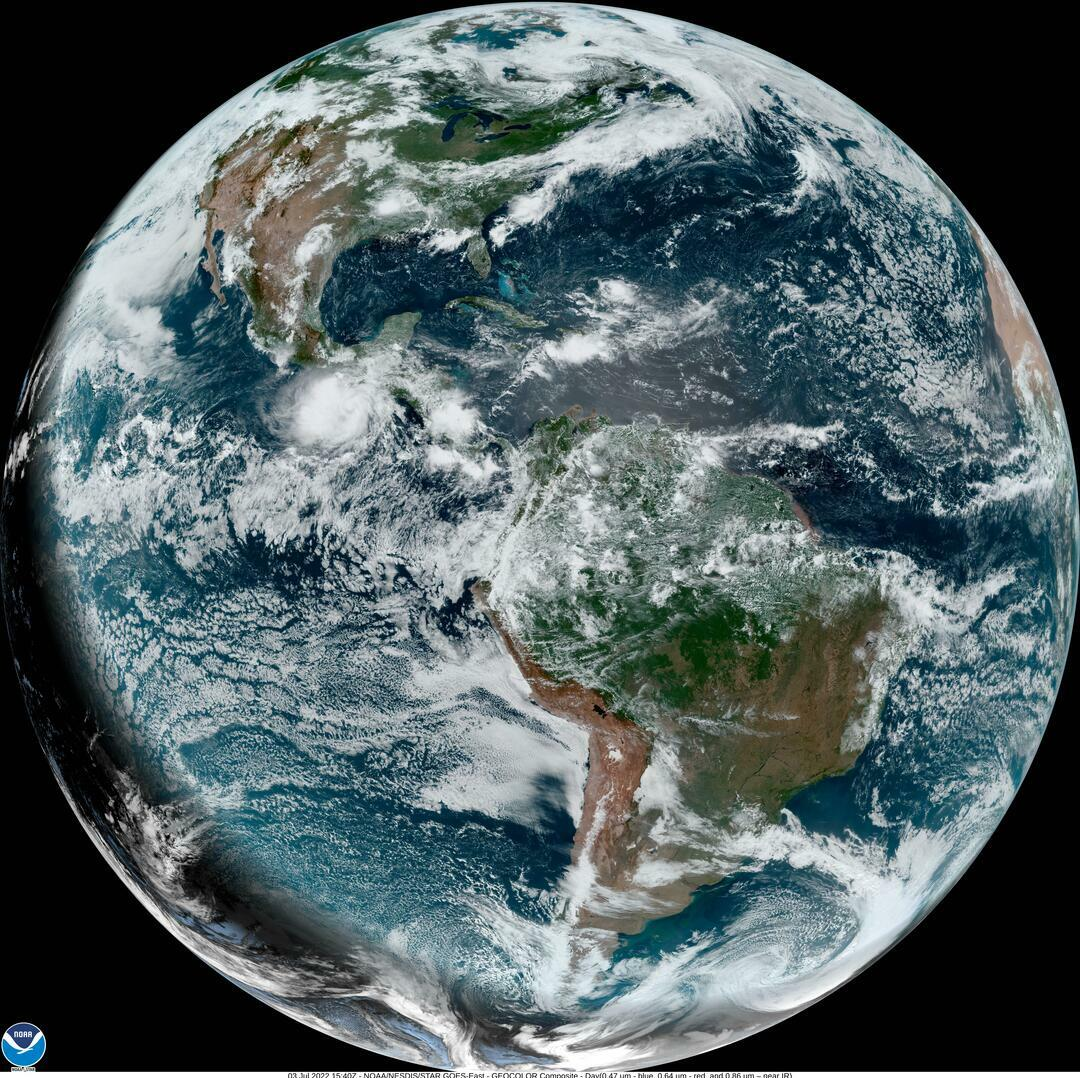
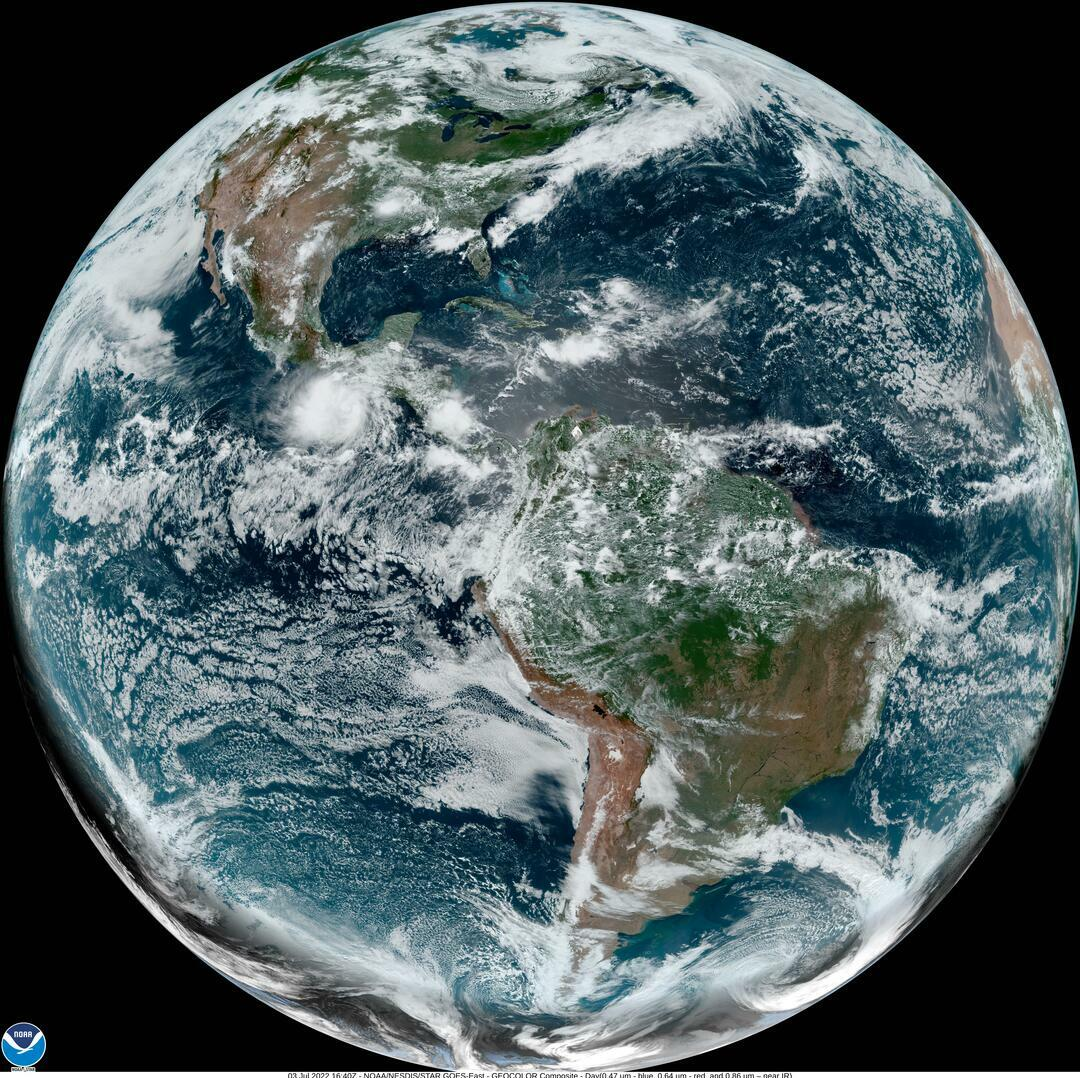
update images

diff --git a/index.html b/index.html
@@ -97,7 +97,7 @@
   </div>
 
   <div class="colophon">
-    <p>Last updated <date datetime="2022-07-03T16:01:48.647Z">2022-07-03T16:01:48.647Z</date>. Updates every hour.</p>
+    <p>Last updated <date datetime="2022-07-03T17:03:12.152Z">2022-07-03T17:03:12.152Z</date>. Updates every hour.</p>
     <p>View source on <a href="https://github.com/ungoldman/latest-earth">github</a>.</p>
   </div>
 
